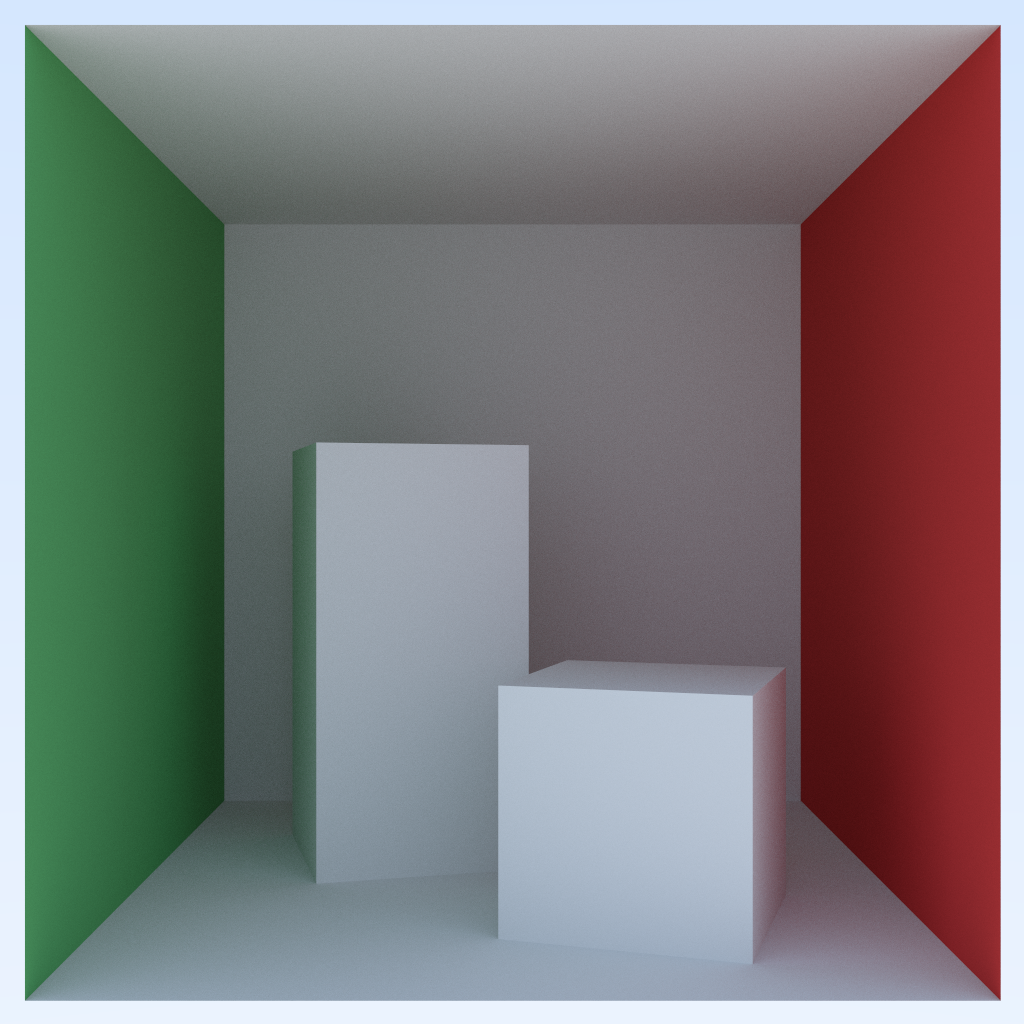
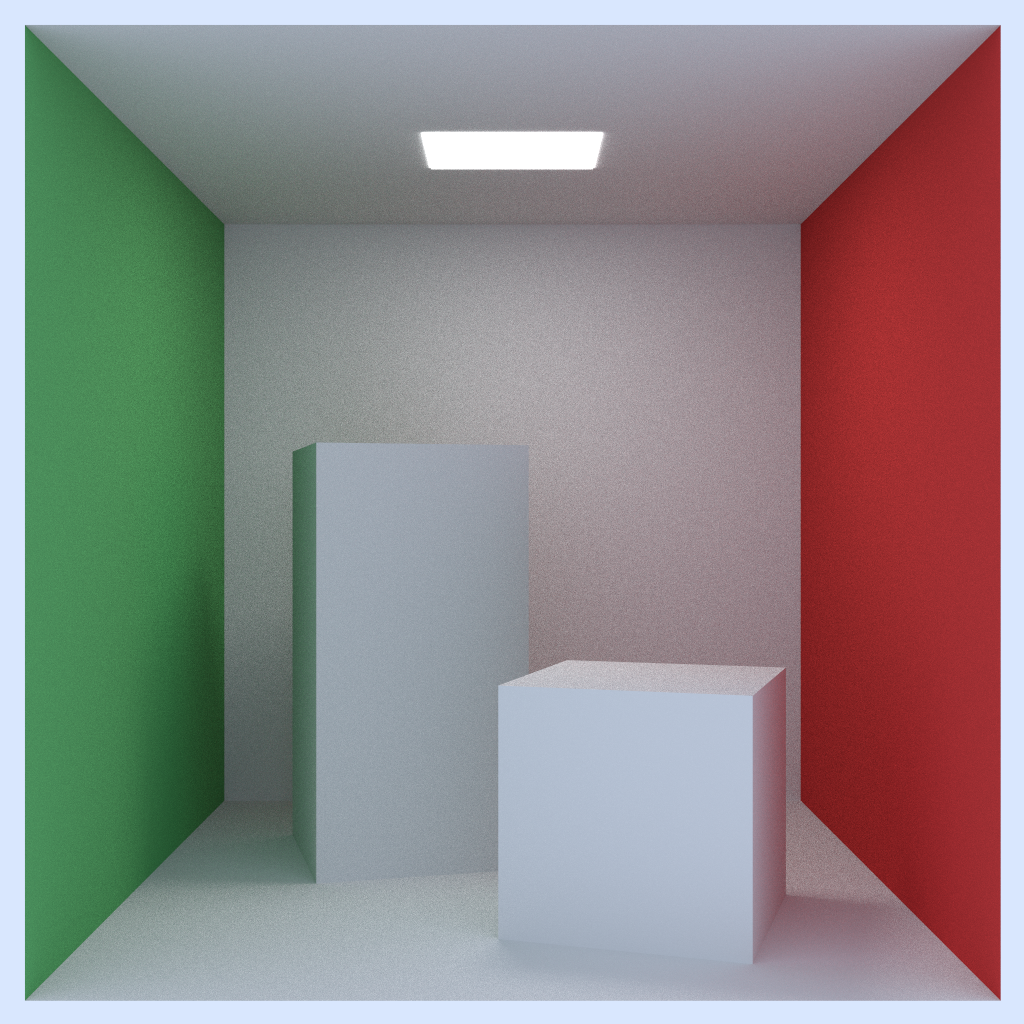
Got lights working

diff --git a/src/camera.rs b/src/camera.rs
@@ -20,6 +20,7 @@ pub struct Camera {
     pub defocus_angle: f64,
     pub focus_dist: f64,
     pub delta_time: f64,
+    pub background: Color,
     viewport_upper_left: Point3,
     pixel_delta_u: Vec3,
     pixel_delta_v: Vec3,
@@ -43,6 +44,7 @@ impl Default for Camera {
             defocus_angle: 0.1,
             focus_dist: 10.0,
             delta_time: 0.0,
+            background: Color::black(),
             viewport_upper_left: Point3::zero(),
             pixel_delta_u: Point3::zero(),
             pixel_delta_v: Point3::zero(),
@@ -120,27 +122,26 @@ impl Camera {
 
     pub fn ray_color(&self, world: &Arc<dyn Hittable + Sync>, r: &Ray, depth: i32) -> Color {
         if depth <= 0 {
-            return Color::zero();
+            return Color::black();
         }
     
         let mut rec: HitRecord = HitRecord{..HitRecord::default()};
     
-        if world.hit(r, Interval { min: 0.001, max: f64::INFINITY }, &mut rec) {
-            let mut scattered: Ray = Ray{..Ray::default()};
-            let mut attenuation: Color = Color::zero();
-            let mat: &Arc<dyn Material + Sync> = rec.mat.as_ref().unwrap();
-            if mat.scatter(r, &rec, &mut attenuation, &mut scattered) {
-                // Uncomment to debug UVs
-                // attenuation.set_x(rec.u);
-                // attenuation.set_y(rec.v);
-                // attenuation.set_z(0.0);
-                return attenuation * self.ray_color(world, &scattered, depth-1); 
-            }
-            return Color::zero();
+        if !world.hit(r, Interval { min: 0.001, max: f64::INFINITY }, &mut rec) {
+            return self.background;
         }
-        let unit_direction = normalize(r.direction);
-        let t: f64 = 0.5 * (unit_direction.y() + 1.0);
-        Color::one()*(1.0-t) + Color::new(0.5, 0.7, 1.0)*t
+
+        let mut scattered: Ray = Ray{..Ray::default()};
+        let mut attenuation: Color = Color::zero();
+        let mat: &Arc<dyn Material + Sync> = rec.mat.as_ref().unwrap();
+
+        let light_color: Color = mat.emitted();
+        if !mat.scatter(r, &rec, &mut attenuation, &mut scattered) {
+            return light_color;
+        }
+        let material_color: Color = attenuation * self.ray_color(world, &scattered, depth-1); 
+
+        return light_color + material_color;
     }
     
     fn render_pixel(self, x:i32, y: i32, world: &Arc<dyn Hittable + Sync>) -> Color {
@@ -223,7 +224,6 @@ impl Camera {
             queued = pool.queued_count();
             total = active + queued;
         }
-        
         pool.join();
     }
 
@@ -243,7 +243,7 @@ impl Camera {
             self.render_single(world_arc, &image_buffer, &start);
         }
 
-        println!("Total render time: {}", seconds_to_hhmmss(start.elapsed().as_secs_f64()));
+        println!("\nTotal render time: {}", seconds_to_hhmmss(start.elapsed().as_secs_f64()));
     
         self.save_file(&*image_buffer.lock().unwrap(), output)?;
     

diff --git a/src/material.rs b/src/material.rs
@@ -7,6 +7,7 @@ use crate::vec3::*;
 
 pub trait Material : Send {
     fn scatter(&self, ray_in: &Ray, rec: &HitRecord, color: &mut Color, scattered: &mut Ray) -> bool;
+    fn emitted(&self) -> Color;
 }
 
 #[derive(Copy, Clone, Default)]
@@ -23,6 +24,11 @@ pub struct Metal {
 #[derive(Copy, Clone, Default)]
 pub struct Dielectric {
     pub ior: f64
+}
+
+#[derive(Copy, Clone, Default)]
+pub struct Emiter {
+    pub emission: Color
 }
 
 impl Metal {
@@ -44,6 +50,10 @@ impl Material for Lambertian {
 
         return true;
     }
+
+    fn emitted(&self) -> Color {
+        Color::black()
+    }
 }
 
 impl Material for Metal {
@@ -56,6 +66,10 @@ impl Material for Metal {
         *color = self.albedo;
 
         return dot(&scattered.direction, &rec.normal) > 0.0;
+    }
+
+    fn emitted(&self) -> Color {
+        Color::black()
     }
 }
 
@@ -87,5 +101,19 @@ impl Material for Dielectric {
         *scattered = Ray::new(rec.p, direction, ray_in.time);
         
         return true;
+    }
+
+    fn emitted(&self) -> Color {
+        Color::black()
+    }
+}
+
+impl Material for Emiter {
+    fn scatter(&self, _ray_in: &Ray, _rec: &HitRecord, _color: &mut Color, _scattered: &mut Ray) -> bool {
+        false
+    }
+
+    fn emitted(&self) -> Color {
+        self.emission
     }
 }

diff --git a/src/main.rs b/src/main.rs
@@ -6,7 +6,7 @@ use clap_num::number_range;
 use hittable::Hittable;
 use vec3::Point3;
 
-use crate::hittable_list::HittableList;
+use crate::{hittable_list::HittableList, vec3::Color};
 
 
 mod tga;
@@ -67,6 +67,7 @@ fn create_random_world(args: &Args) -> (HittableList, Camera) {
     cam.image_height= args.height;
     cam.samples_per_pixel = args.spp;
     cam.max_depth = args.max_depth;
+    cam.background = Color::new(0.7, 0.8, 1.0);
     cam.initialize();
     (world, cam)
 }
@@ -83,6 +84,7 @@ fn create_cornell_box(args: &Args) -> (HittableList, Camera) {
     cam.image_height= args.height;
     cam.samples_per_pixel = args.spp;
     cam.max_depth = args.max_depth;
+    cam.background = Color::new(0.7, 0.8, 1.0);
     cam.initialize();
     (world, cam)
 }
@@ -98,6 +100,7 @@ fn create_quads(args: &Args) -> (HittableList, Camera) {
     cam.image_height= args.height;
     cam.samples_per_pixel = args.spp;
     cam.max_depth = args.max_depth;
+    cam.background = Color::new(0.7, 0.8, 1.0);
     cam.initialize();
     (world, cam)
 }

diff --git a/src/world.rs b/src/world.rs
@@ -36,6 +36,7 @@ pub fn cornell_box() -> HittableList {
     let red  : Arc<dyn Material + Sync> = Arc::new(Lambertian{albedo: Color::new(0.65, 0.05,0.05)});
     let white: Arc<dyn Material + Sync> = Arc::new(Lambertian{albedo: Color::new(0.73, 0.73,0.73)});
     let green: Arc<dyn Material + Sync> = Arc::new(Lambertian{albedo: Color::new(0.12, 0.45,0.15)});
+    let light: Arc<dyn Material + Sync> = Arc::new(Emiter{ emission: Color::new(15.0, 15.0, 15.0) });
 
     l_world.add_obj(Arc::new(Quad::new(
         Point3::new(555.0, 0.0, 0.0),
@@ -48,6 +49,12 @@ pub fn cornell_box() -> HittableList {
         Point3::new(0.0, 555.0, 0.0),
         Point3::new(0.0, 0.0, 555.0), 
         &red
+    )));
+    l_world.add_obj(Arc::new(Quad::new(
+        Point3::new(343.0, 554.0, 332.0),
+        Point3::new(-130.0, 0.0, 0.0),
+        Point3::new(0.0, 0.0, -105.0), 
+        &light
     )));
     l_world.add_obj(Arc::new(Quad::new(
         Point3::new(0.0, 0.0, 0.0),

diff --git a/src/bvh.rs b/src/bvh.rs
@@ -50,7 +50,7 @@ impl BVHNode {
         } else {   
             objects[start..end].sort_by(
                 |a, b| 
-                comparator(&b.bounding_box(), &a.bounding_box()) );
+                comparator(&a.bounding_box(), &b.bounding_box()) );
             let mid: usize = start + object_span/2;
             node.left = Some(Arc::new(BVHNode::new(&objects, start, mid)));
             node.right = Some(Arc::new(BVHNode::new(&objects, mid, end)));

diff --git a/src/vec3.rs b/src/vec3.rs
@@ -323,6 +323,10 @@ impl Color {
         Color::one()
     }
 
+    pub fn black() -> Color {
+        Color::zero()
+    }
+
     pub fn r(self: &Color) -> f64 {
         self.x()
     }

diff --git a/README.md b/README.md
@@ -8,7 +8,8 @@ Working on completing [_Ray Tracing in One Weekend The Book Series_](https://ray
   * Bouding Volume Hiararchies: Done
   * Quadrilaterals: Done
   * Instances: Done
-  * Lights: In Progress
+  * Lights: Done
+  * Textures: In Progress
   
 
 ### [_Ray Tracing in One Weekend_](https://raytracing.github.io/books/RayTracingInOneWeekend.html)
